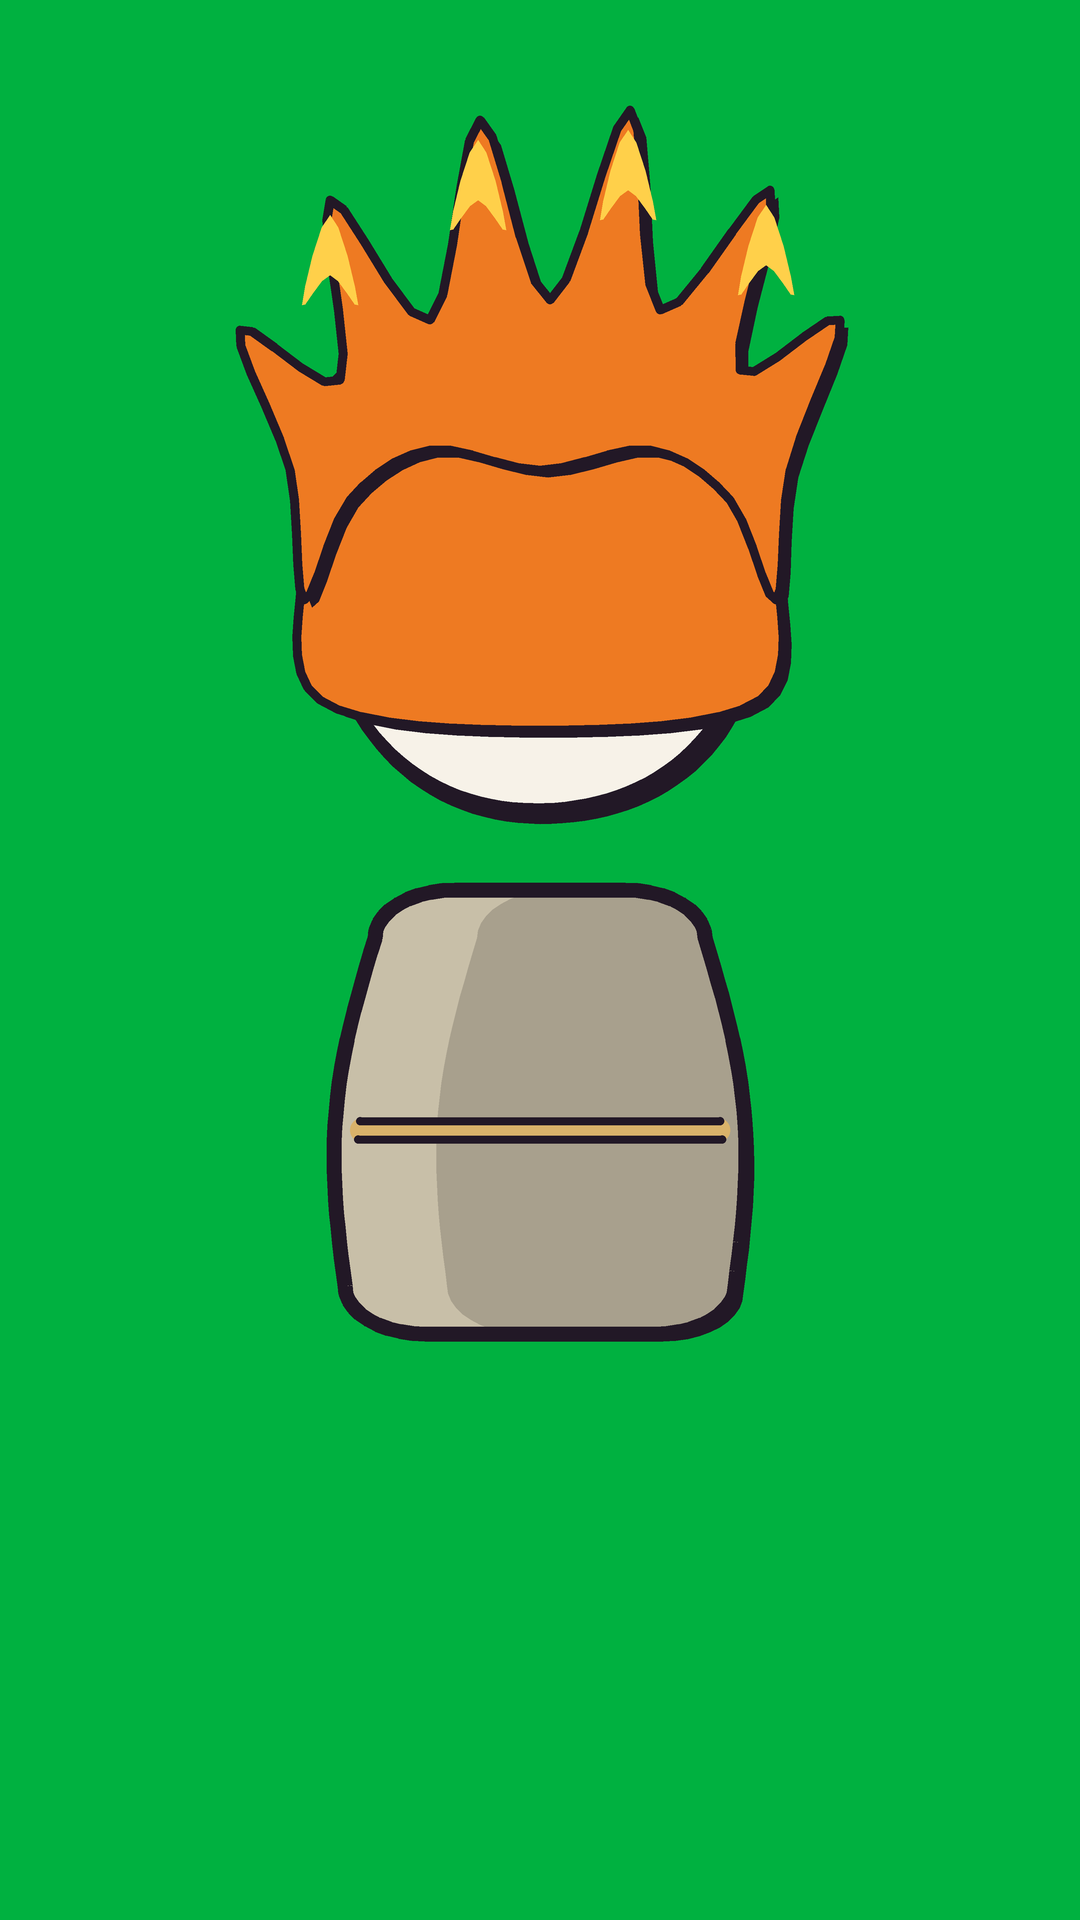
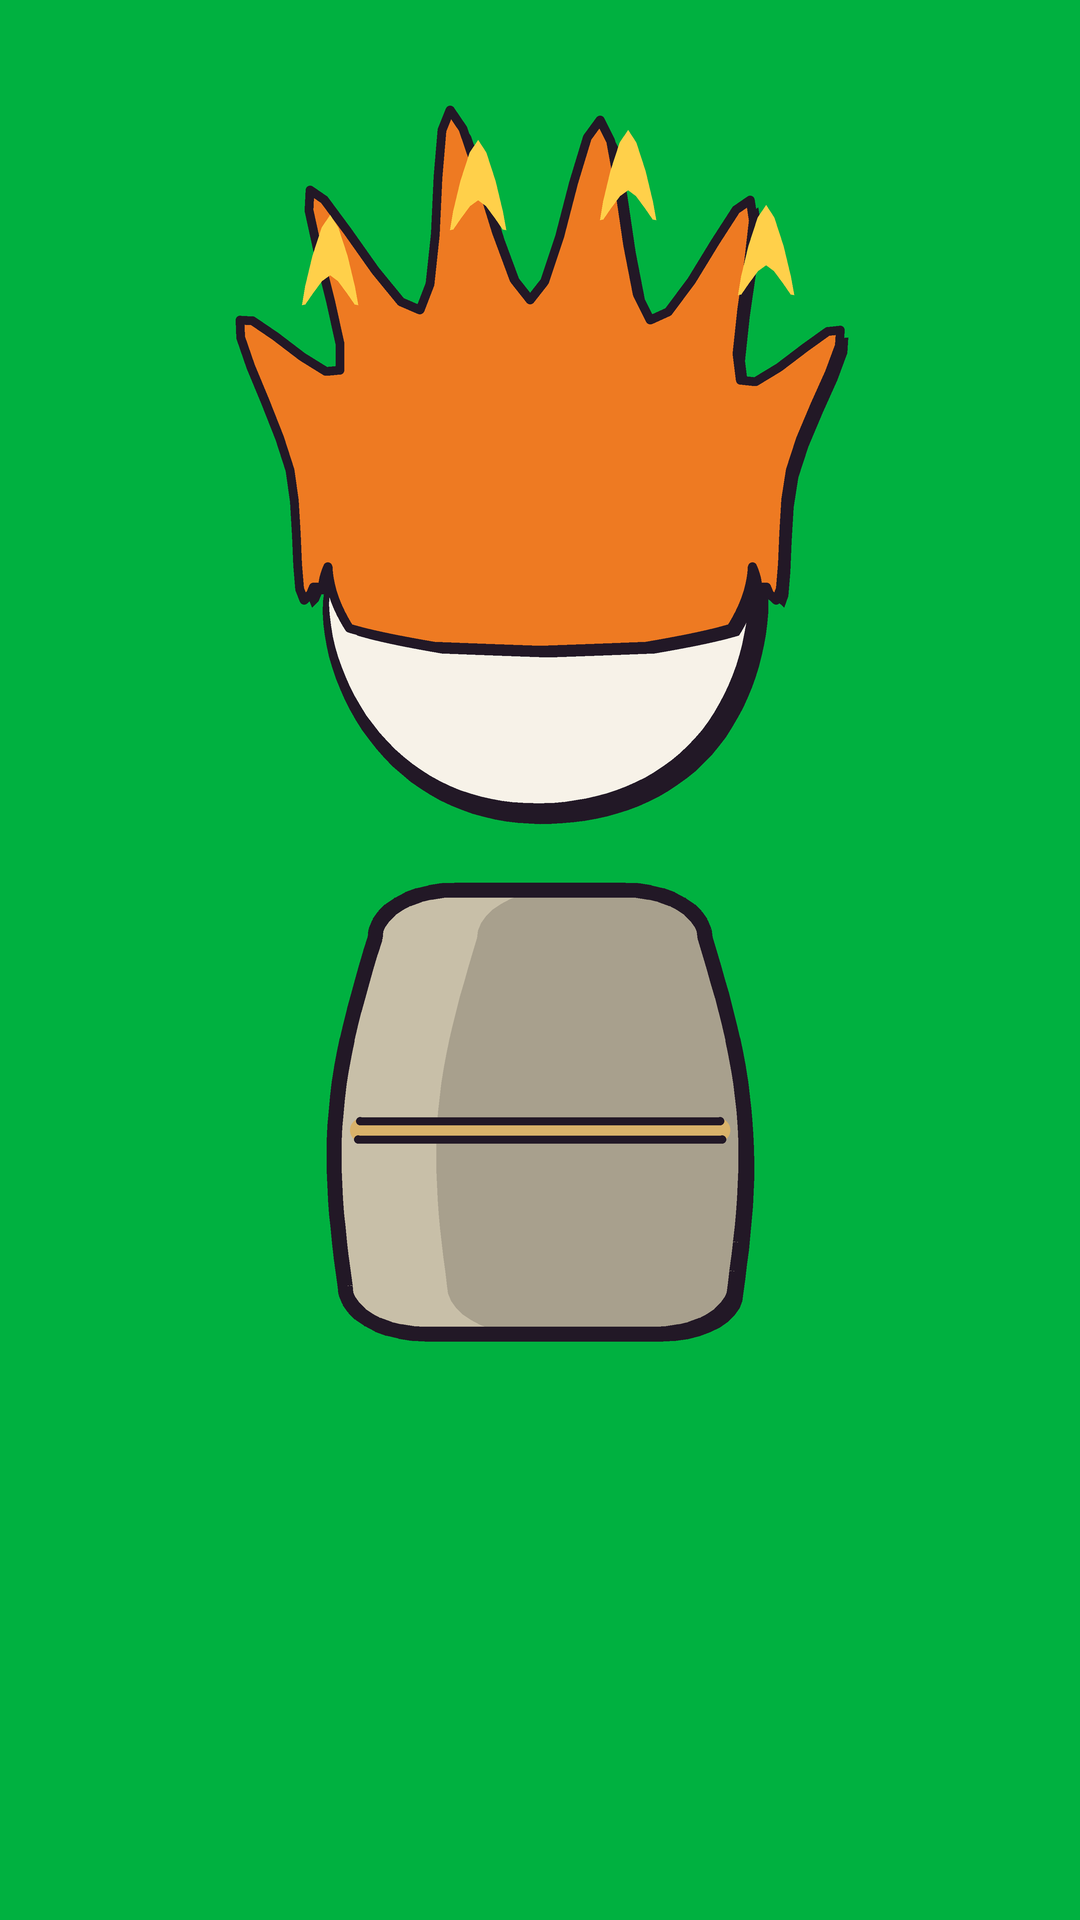
hair turns with the head: Q/S/B drawn from a 3D head with a natural hairline (forehead-temple-sideburn-behind ear-nape, user reference), one connected piece with one ink outline; F views unchanged; changed sprites need re-approval

diff --git a/projects/the-puppet-master/tools/hair_library.py b/projects/the-puppet-master/tools/hair_library.py
@@ -29,6 +29,85 @@ def hl(d,pts,col):  # soft hair highlight streak
 def strands(d,curves,col,w=5):  # flowing strand lines (refs): darker curved lines along the hair
     for c in curves: line(d,cr(c,6,closed=False),lw=w*K,col=shade(col,.62))
 def back_cap(d,col,lo=760): poly(d,cr([(CX-238,560),(CX-232,420),(CX-150,345),(CX,320),(CX+150,345),(CX+232,420),(CX+238,560),(CX+220,lo),(CX,lo+30),(CX-220,lo)]),col)
+# ---- v8 (user rule 2026-11-23): hair turns WITH the head. The F drawing is mapped onto the skull as a sphere (centre CX,600, radius 250)
+# and rotated by the view's yaw (Q 38 deg, S 78 deg; the face looks to screen-left in Q/S, so the back of the head is +x). What turns off
+# the far edge stays on the rim; the strip of skull that turns into view at the back is covered by back_mass() in the same colour, so the
+# hair still reads as one piece that grows from the whole head.
+HEAD_R = 218;   # the drawn head ball (blob R 205, 3 % wider, + ink)
+YAW = {'F': 0, 'Q': 38, 'S': 78, 'B': 0}
+def _hr(y): return math.sqrt(max(HEAD_R ** 2 - (y - 600) ** 2, 70 ** 2))
+def vt(pts, view):
+    phi = math.radians(YAW.get(view, 0))
+    if not phi: return list(pts)
+    out = []
+    for x, y in pts:
+        r = _hr(y); u = (x - CX) / r; over = 0.0
+        if abs(u) > 1: over = (abs(u) - 1) * r * math.copysign(1, u); u = math.copysign(1, u)
+        th = max(-math.pi / 2, math.asin(u) - phi)
+        out.append((CX + r * math.sin(th) + over * (math.cos(phi) if over > 0 else 1), y))
+    return out
+def _ink_mask(d, a, x0, y0, col, lw=LW):
+    """paint boolean mask `a` (pixel box at x0,y0) as one piece: weighted ink (offset shadow + edge line, like poly()) + fill"""
+    import numpy as np
+    from scipy import ndimage
+    from PIL import Image as _I
+    im = d._image; ox, oy = int(lw * .55), int(lw * .5)
+    sh = np.zeros_like(a); sh[oy:, ox:] = a[:-oy, :-ox]
+    half = lw * .6 / 2; din = ndimage.distance_transform_edt(a); dout = ndimage.distance_transform_edt(~a)
+    ink = (sh & ~a) | ((din > 0) & (din <= half)) | ((dout > 0) & (dout <= half)); fill = a & ~ink
+    box = im.crop((x0, y0, x0 + a.shape[1], y0 + a.shape[0]))
+    box.paste(_I.new('RGB', box.size, INK), (0, 0), _I.fromarray((ink * 255).astype('uint8')))
+    box.paste(_I.new('RGB', box.size, col), (0, 0), _I.fromarray((fill * 255).astype('uint8')))
+    im.paste(box, (x0, y0))
+def union_fill(d, shapes, col, lw=LW):
+    """several polygons (head-design coords) filled as ONE piece with ONE ink outline (no seams where they overlap)"""
+    import numpy as np
+    from PIL import Image as _I, ImageDraw as _D
+    pts = [P(s_) for s_ in shapes]; xs = [x for p_ in pts for x, _ in p_]; ys = [y for p_ in pts for _, y in p_]
+    pad = int(lw * 2); x0, y0 = max(0, int(min(xs)) - pad), max(0, int(min(ys)) - pad); x1, y1 = min(W, int(max(xs)) + pad), min(H, int(max(ys)) + pad)
+    m = _I.new('L', (x1 - x0, y1 - y0), 0); md = _D.Draw(m)
+    for p_ in pts: md.polygon([(x - x0, y - y0) for x, y in p_], fill=255)
+    _ink_mask(d, np.asarray(m) > 127, x0, y0, col, lw)
+# Hairline on the skull (user reference 2026-11-23: front / side / back hairline chart): design-y of the hair edge at an angle around the
+# head measured from the face (0 = forehead, 90 = ear, 180 = nape). Forehead -> temple corner -> sideburn in front of the ear ->
+# up behind the ear -> nape. front / side / back come from each hairstyle.
+def hairline(front=474, side=620, back=690):
+    return [(0, front), (50, front + 12), (68, side - 50), (84, side), (100, side - 34), (118, back - 22), (150, back - 4), (180, back)]
+def hair_shape(d, F, col, view, hl=None, puff=18):
+    """one hairstyle for any view, as ONE connected piece that turns with the head:
+       F view = the drawn front outline F (unchanged); Q / S / B = the scalp region above the hairline on a 3D head (sphere r 250 at
+       CX,600) seen from that view, with `puff` of hair thickness at the silhouette, + the style's own shapes from F turned on the skull
+       (spikes, curls, the fringe in front)."""
+    if view == 'F': poly(d, F, col); return
+    import numpy as np
+    from PIL import Image as _I, ImageDraw as _D
+    HL = hairline(*(hl or (474, 620, 690))); angs = [a_ for a_, _ in HL]; ysl = [y_ for _, y_ in HL]
+    yaw = math.radians({'Q': 38, 'S': 78, 'B': 180}[view])
+    R, t = HEAD_R, puff
+    x0, y0 = int((CX - R - t - 120) * K), int((600 - R - t - 260) * K); x1, y1 = int((CX + R + t + 120) * K), int((600 + R + t) * K)
+    gx, gy = np.meshgrid(np.arange(x0, x1) / K - CX, np.arange(y0, y1) / K - 600)
+    rr = np.hypot(gx, gy); onb = rr <= R; shell = (rr > R) & (rr <= R + t)
+    z = np.sqrt(np.clip(R * R - gx * gx - gy * gy, 0, None)); sx = np.where(onb, gx, gx * R / np.maximum(rr, 1e-6)); sz = np.where(onb, z, 0)
+    # face direction on screen after the turn: (-sin yaw, cos yaw) in (x, z); azimuth of each surface point from the face
+    fx, fz = -math.sin(yaw), math.cos(yaw)
+    az = np.degrees(np.abs(np.arctan2(sx * fz - sz * fx, sx * fx + sz * fz)))
+    edge = np.interp(az, angs, ysl) - 600
+    sy = np.where(onb, gy, gy * R / np.maximum(rr, 1e-6))
+    cap = (onb | shell) & (sy < edge)
+    # the style's own outline from F, turned (mirrored for B: the back shows the spikes, not the fringe)
+    Fv = [(2 * CX - x, y) for x, y in F] if view == 'B' else vt(F, view)
+    m = _I.new('L', (x1 - x0, y1 - y0), 0); _D.Draw(m).polygon([(x * K - x0, y * K - y0) for x, y in Fv], fill=255)
+    style = np.asarray(m) > 127
+    if view == 'B': style &= ~onb                                              # from behind only what sticks out of the skull
+    _ink_mask(d, cap | style, x0, y0, col)
+def back_mass(d, col, view, lo=640, top=330, puff=18):
+    """the back of the hair that turns into view in Q / S: from the rotated right edge of the front drawing out to the skull rim (+puff)"""
+    phi = math.radians(YAW.get(view, 0))
+    if not phi: return
+    ys = [top + (lo - top) * i / 24 for i in range(25)]
+    inner = [(CX + _hr(y) * math.sin(math.pi / 2 - phi) * .96, y) for y in ys]
+    outer = [(CX + (_hr(y) + puff) * (1 - .1 * ((y - top) / (lo - top)) ** 2), y) for y in reversed(ys)]
+    poly(d, cr(inner + outer, 4), col)
 # ---- Kael: dark swept villain hair, sharp layered bangs over one eye ----
 KAEL=[(CX-236,610),(CX-246,500),(CX-300,430),(CX-210,410),(CX-250,330),(CX-150,345),(CX-150,250),(CX-50,315),(CX+10,215),(CX+70,310),(CX+170,250),(CX+165,340),(CX+270,330),(CX+215,410),(CX+262,470),(CX+232,520),
       (CX+238,600),(CX+190,520),(CX+150,560),(CX+120,480),(CX+40,545),(CX+10,470),(CX-60,600),(CX-90,500),(CX-170,640),(CX-180,520)]
@@ -38,9 +117,9 @@ AREN=[(CX-238,620),(CX-252,500),(CX-310,440),(CX-222,415),(CX-262,330),(CX-160,3
       (CX+246,640),(CX+196,560),(CX+170,620),(CX+120,500),(CX+70,600),(CX+30,480),(CX-40,560),(CX-80,470),(CX-150,580),(CX-175,500),(CX-200,600)]
 def hair_aren(d,view='F'):
     c=hexc('#16131d')
-    if view=='B': back_cap(d,c,720); poly(d,cr([(CX-170,350),(CX-170,245),(CX-60,318),(CX-10,205),(CX+60,300),(CX+175,240),(CX+168,335)]),c); return
-    poly(d,cr(AREN,6),c)
-    strands(d,[[(CX-120,330),(CX-80,430),(CX-90,540)],[(CX+20,250),(CX+40,380),(CX+60,560)],[(CX+150,300),(CX+170,420),(CX+170,560)],[(CX-210,420),(CX-205,520),(CX-205,590)]],hexc('#2a2a3c'),4)
+    hair_shape(d,cr(AREN,6),c,view,hl=(470,640,700))
+    if view=='B': return
+    strands(d,[vt(s_,view) for s_ in [[(CX-120,330),(CX-80,430),(CX-90,540)],[(CX+20,250),(CX+40,380),(CX+60,560)],[(CX+150,300),(CX+170,420),(CX+170,560)],[(CX-210,420),(CX-205,520),(CX-205,590)]]],hexc('#2a2a3c'),4)
 # ---- Guard (C02): navy peaked cap, black visor, gold badge ----
 def cap_guard(d,view='F'):
     navy=hexc('#1f2c4a'); gold=hexc('#e2b23c'); blk=hexc('#121018'); band=hexc('#111827')
@@ -53,31 +132,29 @@ def cap_guard(d,view='F'):
 FIRE=[(CX-236,600),(CX-250,470),(CX-300,330),(CX-200,380),(CX-210,200),(CX-110,320),(CX-60,120),(CX+10,300),(CX+90,110),(CX+120,310),(CX+230,190),(CX+200,370),(CX+300,320),(CX+250,470),(CX+236,600),(CX+190,500),(CX+110,450),(CX,470),(CX-110,450),(CX-190,500)]
 def hair_fire(d,view='F'):
     c=hexc('#ee7a22')
-    if view=='B': back_cap(d,c,700)
-    poly(d,cr(FIRE,5),c)
-    for tip in [(CX-210,215),(CX-62,140),(CX+88,130),(CX+226,205)]: poly(d,cr([(tip[0]-28,tip[1]+90),(tip[0],tip[1]),(tip[0]+28,tip[1]+90),(tip[0],tip[1]+60)],4),hexc('#ffd04a'),lw=0)
-    if view!='B': strands(d,[[(CX-140,330),(CX-120,420)],[(CX+20,330),(CX+10,430)],[(CX+150,340),(CX+140,430)]],c,4)
-def skull_cap(d,col,hair_y=474,lw=None):
+    hair_shape(d,cr(FIRE,5),c,view,hl=(480,600,650))
+    for tip in [(CX-210,215),(CX-62,140),(CX+88,130),(CX+226,205)]: poly(d,cr(vt([(tip[0]-28,tip[1]+90),(tip[0],tip[1]),(tip[0]+28,tip[1]+90),(tip[0],tip[1]+60)],view),4),hexc('#ffd04a'),lw=0)
+    if view!='B': strands(d,[vt(s_,view) for s_ in [[(CX-140,330),(CX-120,420)],[(CX+20,330),(CX+10,430)],[(CX+150,340),(CX+140,430)]]],c,4)
+def skull_cap(d,col,hair_y=474,lw=None,view='F'):
     """hair that hugs the head: outer edge follows the skull (centre CX,600), hairline across the forehead - one connected piece (fixes the flat floating band / temple gaps)"""
     outer=arc(CX,600,236,232,193,347,36); inner=[(CX+198,548),(CX+140,505),(CX+62,hair_y+6),(CX,hair_y),(CX-62,hair_y+6),(CX-140,505),(CX-198,548)]
-    poly(d,outer+inner,col)
+    hair_shape(d,outer+inner,col,view,hl=(hair_y,560,640),puff=4)
 # ---- Strong man (C04): very short dark buzz cut ----
 def hair_buzz(d,view='F'):
     c=hexc('#3a3236')
-    if view=='B': back_cap(d,c,700); return
-    skull_cap(d,c,470)
+    skull_cap(d,c,470,view=view)
+    if view=='B': return
     import random; r=random.Random(4)
     for _ in range(26):
         x=CX+r.uniform(-170,170); y=r.uniform(400,500)
-        if (x-CX)**2/225**2+(y-600)**2/200**2<1 and y<530-abs(x-CX)*.12: ell(d,x,y,4,4,shade(c,1.5),lw=0)
+        if (x-CX)**2/225**2+(y-600)**2/200**2<1 and y<530-abs(x-CX)*.12: [(x,y)]=vt([(x,y)],view); ell(d,x,y,4,4,shade(c,1.5),lw=0)
 # ---- Thug leader (C05): magenta mohawk fin, shaved sides ----
 def hair_mohawk(d,view='F'):
     c=hexc('#c2348a'); g=hexc('#4a3a40')
-    if view=='B': back_cap(d,g,700)
-    skull_cap(d,g,476)
+    skull_cap(d,g,476,view=view)
     fin=[(CX-66,520),(CX-84,380),(CX-124,258),(CX-44,282),(CX-32,168),(CX+20,262),(CX+62,156),(CX+72,268),(CX+142,236),(CX+86,370),(CX+68,520),(CX+10,500),(CX-30,510)]
-    if view=='S': fin=[(x-40,y) for x,y in fin]
-    poly(d,cr(fin,5),c); hl(d,[(CX-30,300),(CX+10,262),(CX+20,282),(CX-20,322)],c)
+    fin=vt(fin,view)
+    poly(d,cr(fin,5),c); hl(d,vt([(CX-30,300),(CX+10,262),(CX+20,282),(CX-20,322)],view),c)
 # ---- Thug 2 (C06): knit beanie with a folded band ----
 def hat_beanie(d,view='F'):
     c=hexc('#5c6b4e')
@@ -106,12 +183,10 @@ NOAH=[(CX-236,600),(CX-254,490),(CX-228,395),(CX-150,345),(CX-70,320),(CX-26,236
       (CX+198,545),(CX+152,490),(CX+60,466),(CX-34,478),(CX-104,532),(CX-148,610),(CX-182,540),(CX-204,590)]
 def hair_noah(d,view='F'):
     c=hexc('#cdd0da')
-    if view=='B':
-        back_cap(d,c,720); poly(d,cr([(CX-170,350),(CX-166,250),(CX-60,320),(CX-12,232),(CX+60,312),(CX+176,262),(CX+170,350)],4),c)
-        poly(d,cr([(CX-40,690),(CX-26,740),(CX+8,785),(CX+40,740),(CX+56,690)],5),c); return
-    poly(d,cr(NOAH,6),c)
-    hl(d,[(CX+10,340),(CX+110,352),(CX+160,390),(CX+70,376)],hexc('#f4f6fb'))
-    strands(d,[[(CX-80,350),(CX-86,440),(CX-96,540)],[(CX+30,330),(CX+40,420),(CX+50,490)],[(CX+150,350),(CX+170,430),(CX+176,500)],[(CX-200,440),(CX-210,520),(CX-206,570)]],hexc('#8f93a6'),4)
+    hair_shape(d,cr(NOAH,6),c,view,hl=(470,620,700))
+    if view=='B': return
+    hl(d,vt([(CX+10,340),(CX+110,352),(CX+160,390),(CX+70,376)],view),hexc('#f4f6fb'))
+    strands(d,[vt(s_,view) for s_ in [[(CX-80,350),(CX-86,440),(CX-96,540)],[(CX+30,330),(CX+40,420),(CX+50,490)],[(CX+150,350),(CX+170,430),(CX+176,500)],[(CX-200,440),(CX-210,520),(CX-206,570)]]],hexc('#8f93a6'),4)
 
 # ---- Prisoner p1 (C10, ep4): brown curly mop, ONE connected bumpy outline that sits on the skull (the gossip scene needs a silhouette
 #      that differs from the beanie thug: round curly cloud vs a flat cuffed dome) ----
@@ -123,17 +198,16 @@ def _curls(cx, cy, rx, ry, a0, a1, n, amp):
     return pts
 def hair_curly(d, view='F'):
     c = hexc('#6b4630')
-    if view == 'B':
-        poly(d, cr(_curls(CX, 520, 262, 250, 0, 360, 22, .07)[:-1], 5), c); return
     # user rule 2026-11-23: hair flows down the sides and JOINS the head (curly sideburns to the ear line), never a cap sitting on top
     left = [(CX - 232, 628), (CX - 262, 566), (CX - 248, 512), (CX - 276, 452)]
     top = _curls(CX, 470, 268, 215, 196, 344, 14, .08)                     # bumpy crown from the left temple over to the right temple
     right = [(CX + 276, 452), (CX + 248, 512), (CX + 264, 566), (CX + 234, 628)]
     fringe = [(CX + 206, 592), (CX + 196, 520), (CX + 150, 470), (CX + 96, 500), (CX + 40, 456), (CX - 20, 496), (CX - 80, 458), (CX - 140, 502), (CX - 194, 522), (CX - 206, 592)]
-    poly(d, cr(left + top + right + fringe, 5), c)
-    hl(d, [(CX - 120, 345), (CX - 40, 318), (CX + 30, 330), (CX - 50, 352)], c)
+    hair_shape(d, cr(left + top + right + fringe, 5), c, view, hl=(470, 640, 705), puff=28)
+    if view == 'B': return
+    hl(d, vt([(CX - 120, 345), (CX - 40, 318), (CX + 30, 330), (CX - 50, 352)], view), c)
     for x, y in [(CX - 150, 390), (CX - 60, 360), (CX + 40, 372), (CX + 130, 396), (CX - 100, 430), (CX + 90, 436)]:
-        line(d, arc(x, y, 26, 20, 200, 340, 8), lw=4 * K, col=shade(c, .62))
+        line(d, vt(arc(x, y, 26, 20, 200, 340, 8), view), lw=4 * K, col=shade(c, .62))
 
 # ---------- registry (v8 M3): what charsheet.py shows as the Hair Library. silhouette = the outline family (characters in one scene
 # must differ by SILHOUETTE, not only colour - SKILL.md "HAIR LIBRARY" rule); back = how the B view is drawn.
